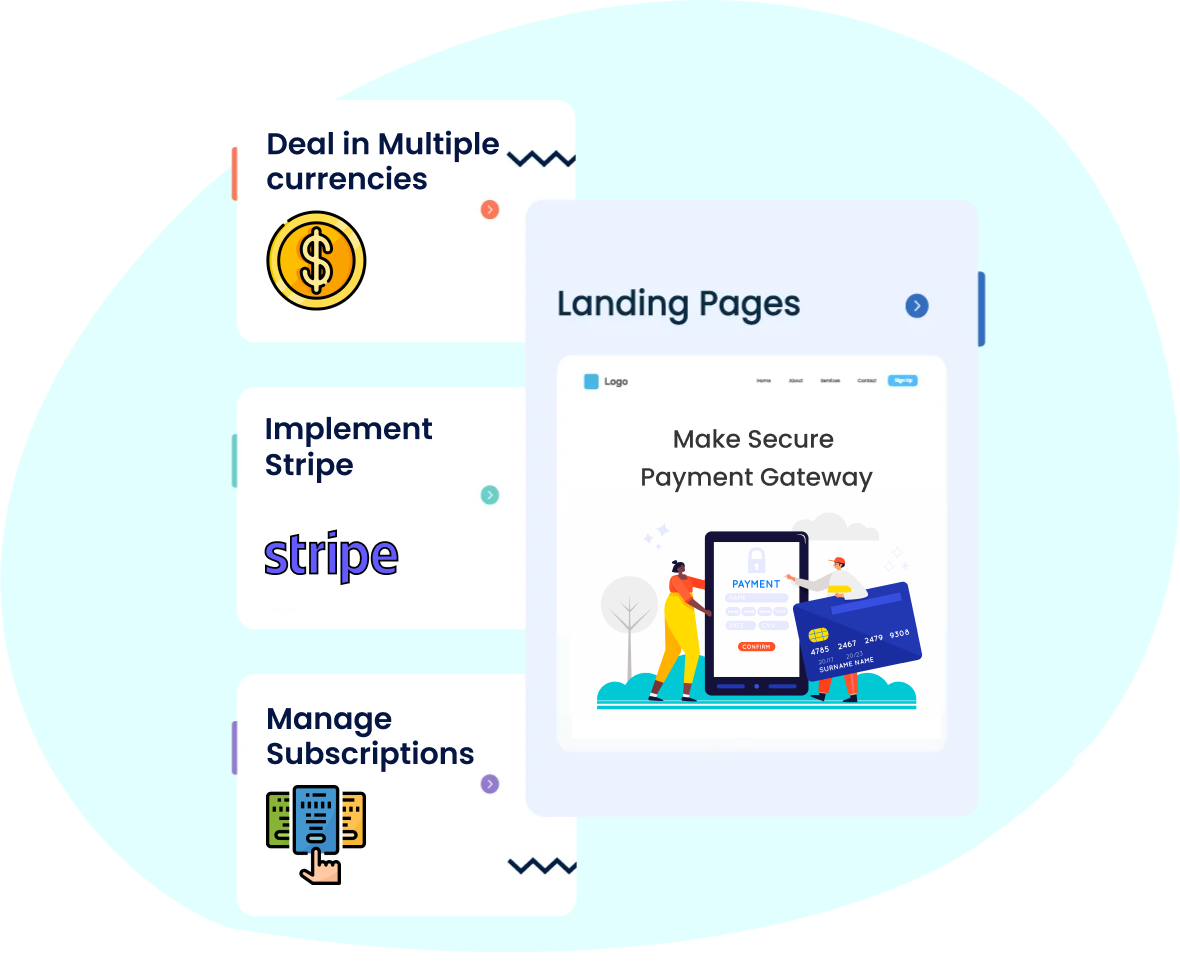
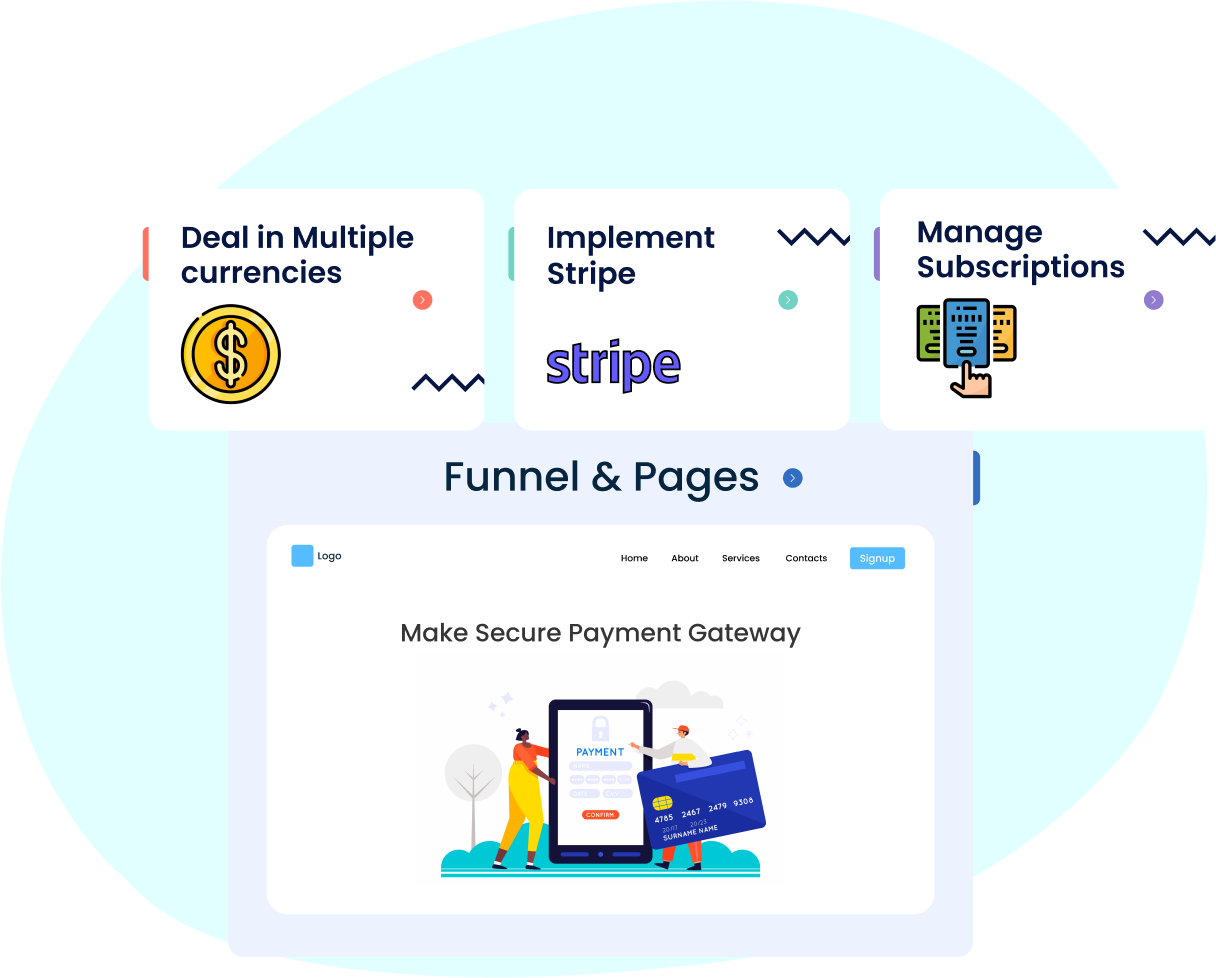
ui

diff --git a/Web_sections/Home/Howwork/how_work.jsx b/Web_sections/Home/Howwork/how_work.jsx
@@ -12,11 +12,11 @@ return (
     </div>
     <div className="row  align-items-center position-relative">
       <div className="col-lg-6 pe-lg-5 pt-80">
-        <img src="/assets/home-page/Add-Mastermind-Programm.png" className="img-fluid" alt="" />
+        <img src="/assets/home-page/add-master-mind.png" className="img-fluid" alt="" />
         <img src="/assets/home-page/line-2.png" className="img-fluid position-img" alt="" />
       </div>
       <div className="col-lg-6 hows-text  ps-lg-5 pt-80  wow slideInRight">
-        <h2>Add Mastermind programme </h2>
+        <h2>Add Mastermind Programme </h2>
         <p>Discover our personalized program and explore the best life has to offer. It's like having a personal guide to help you succeed, with simple steps to navigate the path to your goals easily. </p>
         <h3>Top Features</h3>
         <ul className="list-unstyled">
@@ -30,7 +30,7 @@ return (
     <div className="row  align-items-center  position-relative">
       <div className="col-lg-6 hows-text pe-lg-5 pt-90 order-2 order-lg-1 wow slideInLeft">
         <h2>Select Website Editor</h2>
-        <p>Simplify your website with our easy Website Editor. Pick professional themes, customize with content blocks, and add your info and style without any computer skills required. Access a library of images and graphics easily. </p>
+        <p>Simplify your website with our easy Website Editor. Pick professional themes, customize with content blocks, add your info, and style without any computer skills required. Also, you can access a library of images and graphics easily.</p>
         <h3>Top Feature</h3>
         <ul className="list-unstyled">
           <li>Edit & Customize Everything </li>
@@ -40,7 +40,7 @@ return (
         </ul>
       </div>
       <div className="col-lg-6 ps-lg-5 ps-lg-5 pt-90  order-1 order-lg-2">
-        <img src="/assets/home-page/Select-Page-Builder.png" className="img-fluid" alt="" />
+        <img src="/assets/home-page/select-website.png" className="img-fluid" alt="" />
         <img src="/assets/home-page/line-1.png" className="img-fluid position-img-2" alt="" />
       </div>
     </div>
@@ -51,8 +51,7 @@ return (
       </div>
       <div className="col-lg-6 hows-text ps-lg-5 pt-90 wow slideInRight">
         <h2>Make Payment Gateway Integration</h2>
-        <p>Set up your payment system with ease. We decide on the program's cost, create a subscription for access control, and choose whether it's a one-time, recurring, or trial payment. </p>
-        <h3>Top Feature</h3>
+        <p>Set up your payment system with ease. We determine the program's cost, create a subscription for access control, and choose whether it's a one-time, recurring, or trial payment.</p>
         <ul className="list-unstyled">
           <li>Support Multiple Currencies</li>
           <li>Handled various subscriptions</li>
@@ -110,7 +109,7 @@ return (
         </ul>
       </div>
       <div className="col-lg-6  ps-lg-5 ps-lg-5 pt-90  order-1 order-lg-2">
-        <img src="/assets/home-page/More-Revenue-Success.png" className="img-fluid" alt="" />
+        <img src="/assets/home-page/more-revenew.png" className="img-fluid" alt="" />
       </div>
     </div>
   </div>

diff --git a/Web-Layout/Header/Header.jsx b/Web-Layout/Header/Header.jsx
@@ -1,10 +1,14 @@
 import { s3baseUrl } from "@/config/config";
-import React from "react";
+import React, { useEffect } from "react";
 const Header = ({ page_data }) => {
     const salePage = page_data.sale_page_detail;
   const menu_items = page_data.header_menu.menu_items;
   const { brand_logo } = page_data;
 
+  useEffect(() => {
+    document.getElementsByClassName("nav-link")[0].classList.add("active");
+  }, [])
+  
   return (
     <header>
       {/* <div className="top_navbar d-none d-lg-flex">
@@ -86,7 +90,7 @@ const Header = ({ page_data }) => {
                       <li className="nav-item" key={index}>
                         <a
                         data-index={index}
-                          className={index === 0?"nav-link active":"nav-link"}
+                          className={"nav-link"}
                           aria-current="page"
                           href={items.item_url}
                         >

diff --git a/Web_sections/Home/Banner/banner.jsx b/Web_sections/Home/Banner/banner.jsx
@@ -7,7 +7,7 @@ return (
       <div className="col-lg-6 order-2 order-lg-1 mt-5 mt-lg-0 wow slideInLeft text-center text-lg-start">
         <img src="/assets/home-page/ban-logo.png" alt="" className="img-fluid" />
         <h1>Let Us Guide You on Your Journey to Success </h1>
-        <p>Vision is your one-stop destination for managing memberships, expert consultations, and accelerating growth. Our platform is designed for simplicity, ensuring your journey to success is smooth and efficient. Stay in the loop with our Community and easily manage everything through our CRM/CMS platform. </p>
+        <p>Vissioon is your one-stop destination for managing memberships, expert consultations, and accelerating growth. Our platform is designed for simplicity, ensuring your journey to success is smooth and efficient. Stay in the loop with our Community and easily manage everything through our CRM/CMS platform. </p>
         <a href="#contact_form_wrapper" class="btn-vision">BOOK A CALL</a>
       </div>
       <div className="col-lg-6 order-1 order-lg-2 wow slideInRight">